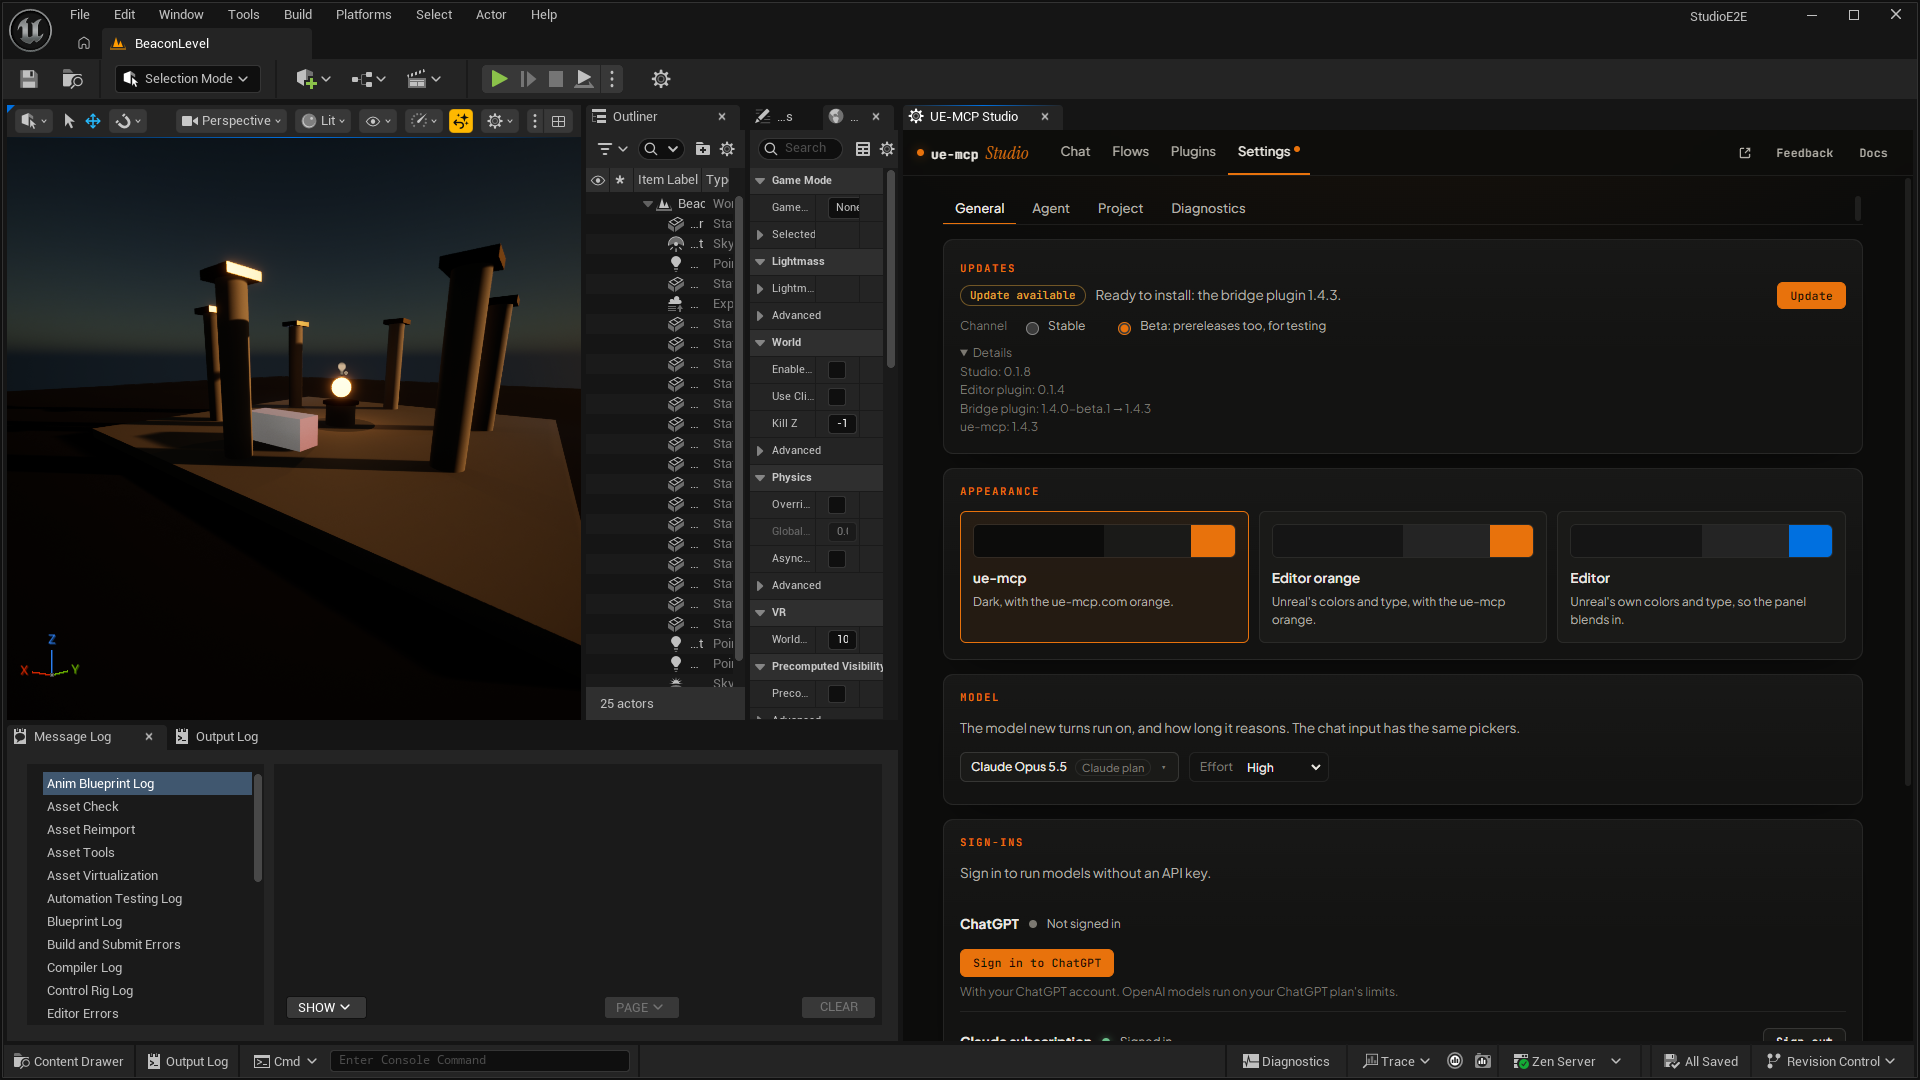
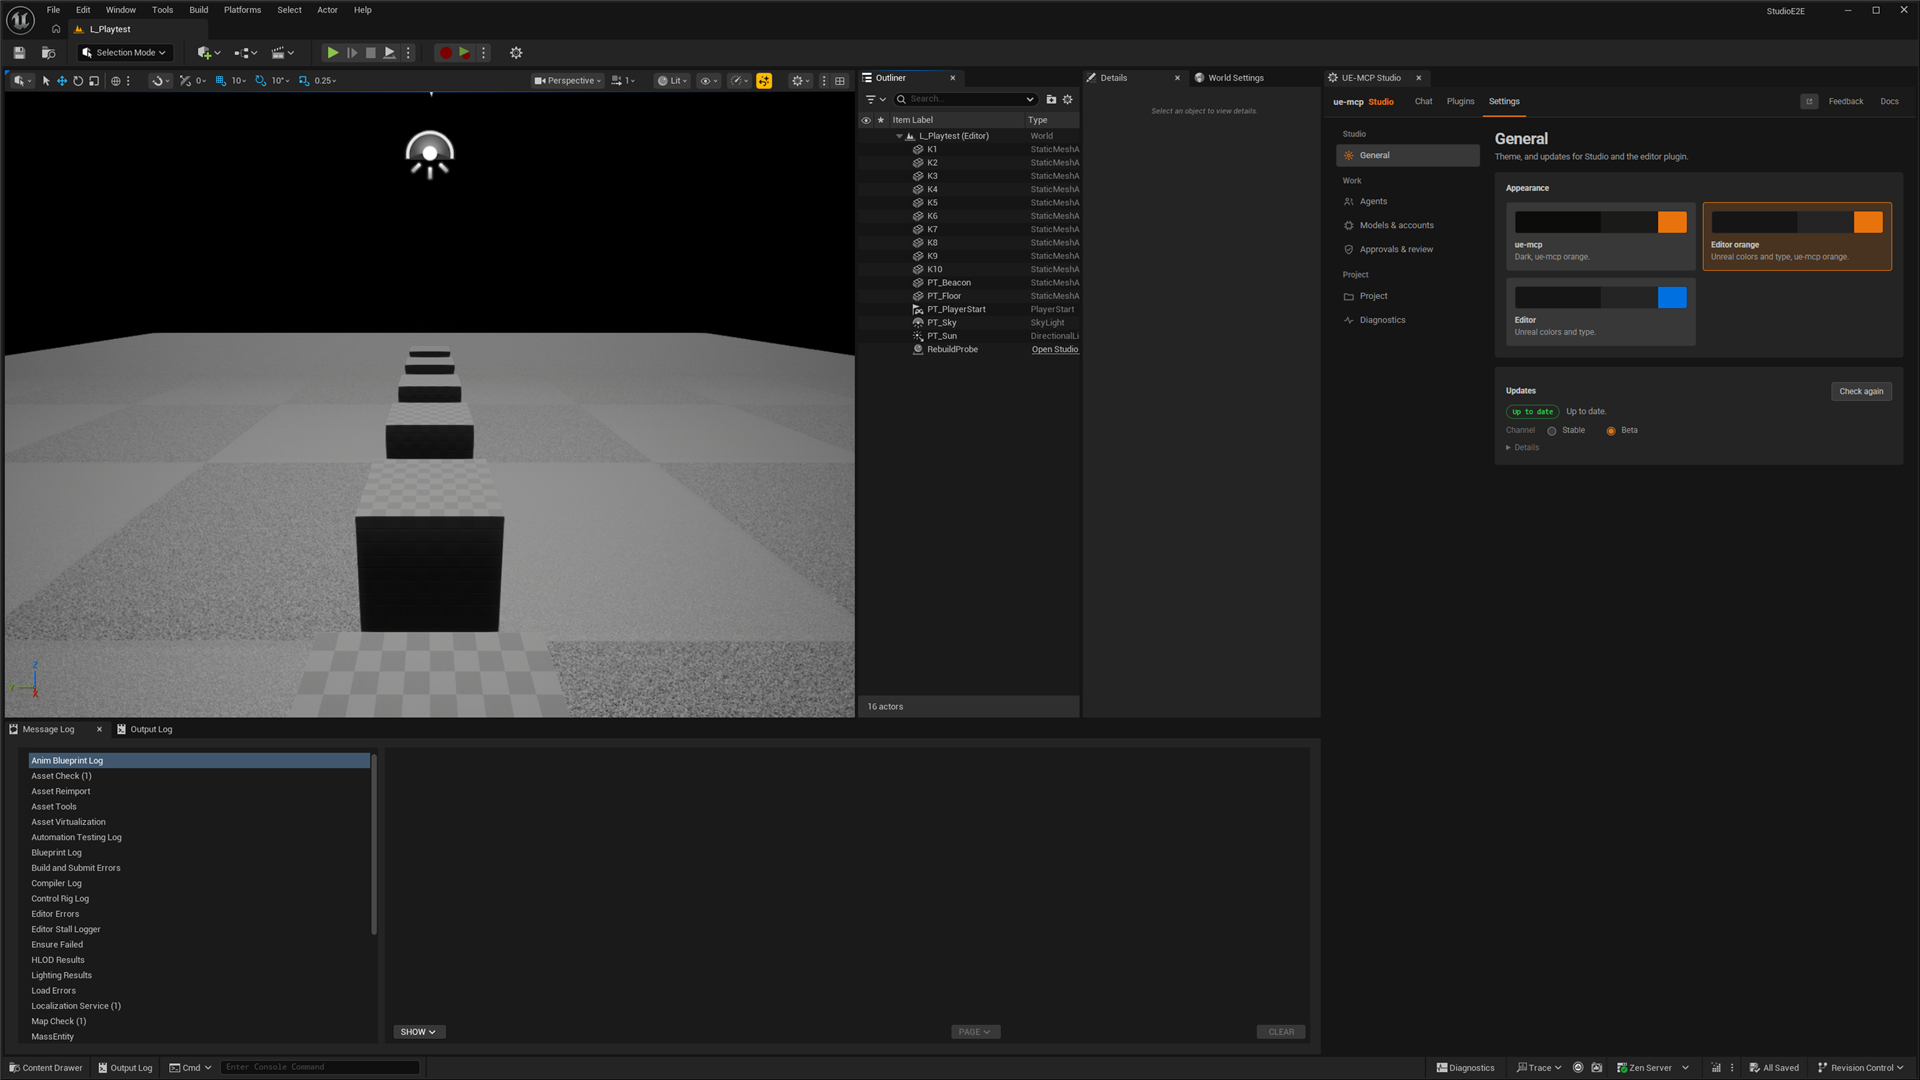
docs(fab): retake gallery shots 08 and 09 on the current Settings pages (#15)

diff --git a/fab/listing.md b/fab/listing.md
@@ -126,6 +126,8 @@ Specs: each image at least 1920x1080, JPEG or PNG, under 3 MB each, under 25 MB 
 9. **Ask Studio.** The Ask Studio prompt at the cursor over the level viewport, with its context chip.
 10. **Chat about this.** The context menu on a selected actor in the Outliner with **Chat about this**.
 11. **Settings.** Settings > General with the Updates card (Studio, Editor plugin, ue-mcp rows) and Settings > Approvals & review with the **Ask first** rows, one per kind.
+    - `08-status-after-setup.png`: the editor after setup, with Studio docked in the UE-MCP Studio tab on Settings > General: the Appearance themes and the Updates card reading **Up to date** on the Beta channel.
+    - `09-settings-sign-in.png`: Studio in its own window on Settings > Models & accounts: the Claude sign-in (from Claude Code) and ChatGPT sign-in, the API keys, custom endpoints, and the route order with the route each model runs on.
 
 ## Video shot list (60 to 90 seconds)
 
